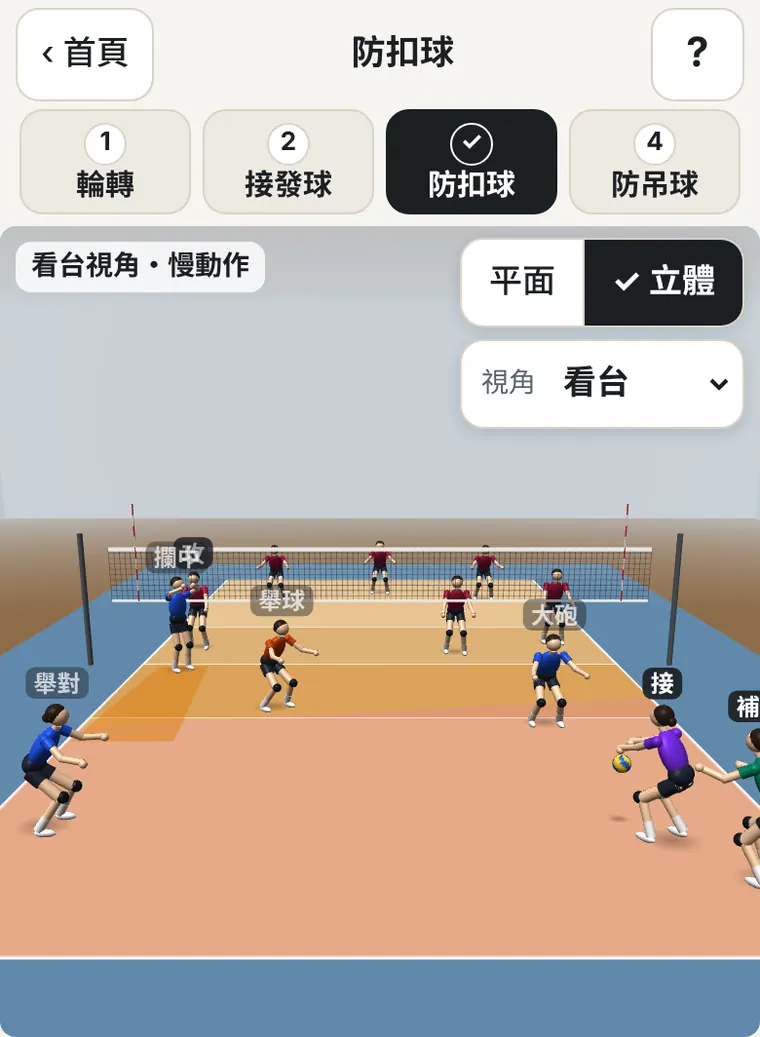
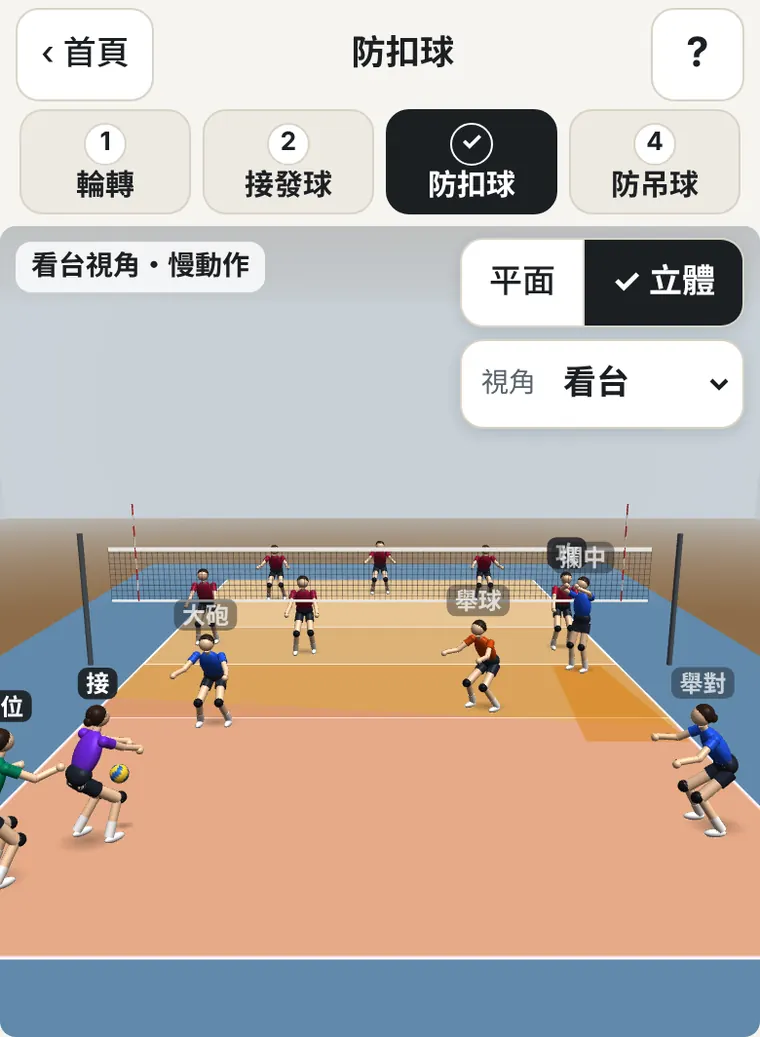
排球站位教室 v2.2.0：舉球、舉對不攔網，攔網碰手變小球，立體畫面左右修正
- 隊上的防守：舉球員和舉對預設不攔網；舉球員守 2 號位前面的短球，長一點的給 1 號位的舉對
- 新設定「攔網碰到球的時候」：碰手變小球（預設）、攔死、沒攔到
- 立體畫面原本左右顛倒（場地座標是左手系），兩種畫法都修正
- 名牌會避開別的球員，不再蓋住別人的名字
- 舊設定自動轉換（sv 4）；說明圖重拍

Claude-Session: https://claude.ai/code/session_01Q8m2fzsawgKx5UKmuuzCmE

Changed region(s): [[0.575, 0.4937, 1.0, 0.864], [0.0, 0.4937, 0.4237, 0.864], [0.4842, 0.5246, 0.5145, 0.5863]]

diff --git a/js/app.js b/js/app.js
@@ -4,7 +4,7 @@
 (() => {
 'use strict';
 
-const APP_VERSION = '2.1.0';
+const APP_VERSION = '2.2.0';
 const BUILD_DATE = '2026-11-16';
 const VERSION_TEXT = `v${APP_VERSION}（${BUILD_DATE}）`;
 const COPY = '© 2026 Ken Chen';
@@ -27,12 +27,17 @@ const ROLE_INFO = {
 let libOff = false;
 function setLibOff(off){ libOff = !!off; ROLE_INFO.L.tok = libOff ? '攔中' : '自由'; ROLE_INFO.L.name = libOff ? '後排攔中' : '自由'; }
 const GROUP_COLOR = { front:'var(--front)', back:'var(--back)', set:'var(--setter)', lib:'var(--lib)' };
+const BLOCKRES_DESC = {
+  soft:'球打進攔網的範圍時，碰到手變成慢慢掉下來的小球，看後面誰去接（新手的攔網通常攔不死）。',
+  kill:'球打進攔網的範圍就算攔死，直接擋回對方場地。',
+  miss:'攔網沒碰到球，球照原本的路線飛過來。',
+};
 const FORM_NAME = { up:'心跟進', rot:'邊跟進', per:'心後', ours:'舉球留網前' };
 const FORM_DESC = {
   up:'一個人站在攔網後面專守吊球，兩邊站深。對手吊球、推球多時適合。',
   rot:'攔網那一側的後排往前守吊球，6 號位轉去守直線深球。',
   per:'後排三個人靠邊線、底線站，重扣最好接；吊球靠 1 號位（或 5 號位）往前和退下來的前排。',
-  ours:'隊上的做法：舉球員一律守 2 號位（在後排時也留在右邊網前守短球、隨時舉球），舉對退到 1 號位防守。',
+  ours:'隊上的做法：舉球員和舉對都不攔網。舉球員一律守 2 號位，接 2 號位前面的短球（在後排時也留在右邊網前、隨時舉球）；比較長的球給後面 1 號位的舉對。',
 };
 const STEPS = ['rot','recv','spike','tip'];
 const STEP_NAME = { rot:'輪轉站位', recv:'接發球', spike:'防扣球', tip:'防吊球' };
@@ -72,7 +77,7 @@ const darkMQ = (() => { try{ return window.matchMedia('(prefers-color-scheme: da
 
 /* ---------- 狀態 ---------- */
 const DEFAULTS = { system:'51', rot:1, recv:'team', useLib:true, step:'rot', serveX:1.6, view:'2d', cam:'dig',
-  formation:'ours', canOH:true, canMB:true, canR:true, mbLate:false, libero:5, radius:2, speed:'normal', attackType:'spike', mode:'learn', attacker:{ x:8.2, y:-1.3 } };
+  formation:'ours', canOH:true, canMB:true, canR:false, mbLate:false, blockRes:'soft', libero:5, radius:2, speed:'normal', attackType:'spike', mode:'learn', attacker:{ x:8.2, y:-1.3 } };
 const CAMS = ['dig','stand','S','MB','OH1','OPP','OH2','L'];
 function sanitizeSettings(o){
   const r = {};
@@ -89,6 +94,7 @@ function sanitizeSettings(o){
   if ([1.2,1.6,2,2.4].includes(+o.radius)) r.radius = +o.radius;
   if (['normal','slow'].includes(o.speed)) r.speed = o.speed;
   if (['spike','tip'].includes(o.attackType)) r.attackType = o.attackType;
+  if (['soft','kill','miss'].includes(o.blockRes)) r.blockRes = o.blockRes;
   if (['learn','free'].includes(o.mode)) r.mode = o.mode;
   if (o.attacker && isFinite(o.attacker.x) && isFinite(o.attacker.y)) r.attacker = { x:clamp(+o.attacker.x, .3, 8.7), y:clamp(+o.attacker.y, -3.2, -.6) };
   if (['51','62','42'].includes(o.system)) r.system = o.system;
@@ -100,7 +106,10 @@ function sanitizeSettings(o){
   if (['2d','3d'].includes(o.view)) r.view = o.view;
   if (CAMS.includes(o.cam)) r.cam = o.cam;
   // v2.1 以前的預設（五人 W、心跟進）改成隊上的站法（教練畫的單舉、舉球員守 2 號位）
-  if (o.sv !== 3){ if (r.recv == null || r.recv === 'w5') r.recv = 'team'; if (r.formation == null || r.formation === 'up') r.formation = 'ours'; }
+  const sv = +o.sv || 0;
+  if (sv < 3){ if (r.recv == null || r.recv === 'w5') r.recv = 'team'; if (r.formation == null || r.formation === 'up') r.formation = 'ours'; }
+  // v2.2：隊上舉球員和舉對都不攔網（教練說的），舊的預設「會攔」改掉
+  if (sv < 4) r.canR = false;
   return r;
 }
 function sanitizeCustom(o){
@@ -117,7 +126,7 @@ const S = Object.assign({}, DEFAULTS, sanitizeSettings(store.get(KEY.settings, {
 S.attacker = Object.assign({}, S.attacker);
 let custom = sanitizeCustom(store.get(KEY.custom, null));
 function saveSettings(){
-  store.set(KEY.settings, { sv:3, system:S.system, rot:S.rot, recv:S.recv, useLib:S.useLib, step:S.step, serveX:+S.serveX.toFixed(2), view:S.view, cam:S.cam,
+  store.set(KEY.settings, { sv:4, blockRes:S.blockRes, system:S.system, rot:S.rot, recv:S.recv, useLib:S.useLib, step:S.step, serveX:+S.serveX.toFixed(2), view:S.view, cam:S.cam,
     formation:S.formation, canOH:S.canOH, canMB:S.canMB, canR:S.canR, mbLate:S.mbLate, libero:S.libero, radius:S.radius,
     speed:S.speed, attackType:S.attackType, mode:S.mode, attacker:{ x:+S.attacker.x.toFixed(2), y:+S.attacker.y.toFixed(2) } });
 }
@@ -326,15 +335,31 @@ function effort(P, L, A){
 function decide(L, type, comp, att){
   const R = S.radius, A = [att.x, att.y];
   if (L[0] < -0.02 || L[0] > 9.02 || L[1] > 9.02) return { kind:'out' };
-  if (type === 'spike' && comp.shadow && inPoly(L, comp.shadow)) return { kind:'blocked' };
+  if (type === 'spike' && comp.shadow && inPoly(L, comp.shadow)){
+    if (S.blockRes === 'kill') return { kind:'blocked' };
+    if (S.blockRes === 'soft'){
+      // 碰到攔網的手：球速變慢，掉在攔網後面一兩公尺，跟吊球一樣要往前撲
+      const bp = [clamp(L[0], comp.seg[0] + .1, comp.seg[1] - .1), .05];
+      const v = [L[0] - bp[0], L[1] - bp[1]], dl = Math.hypot(v[0], v[1]) || 1;
+      const len = clamp(dl * .55, 1.0, 2.2);
+      const Ls = clampCourt([bp[0] + v[0] / dl * len, Math.max(.6, bp[1] + v[1] / dl * len)]);
+      const d2 = decide(Ls, 'soft', comp, att);
+      return Object.assign(d2, { soft:{ bp, L:Ls } });
+    }
+  }
   const cands = ROLES.filter(r => !comp.blockers.includes(r)).map(r => ({ r, d:dist(comp.pos[r], L), e:effort(comp.pos[r], L, A) }));
   const mk = (digger, rule, backup, extra) => Object.assign({ kind:'dig', digger, rule, backup:backup || null }, extra || {});
   if (!cands.length) return { kind:'nobody' };
   // 吊球交給負責吊球的人；但如果有別人（不是舉球員）就站在球旁邊、明顯比較近，就給她
-  if (type === 'tip' && comp.tip && !comp.blockers.includes(comp.tip)){
+  if ((type === 'tip' || type === 'soft') && comp.tip && !comp.blockers.includes(comp.tip)){
     const t = cands.find(c => c.r === comp.tip);
     const closer = cands.some(c => c.r !== comp.tip && c.r !== 'S' && c.d <= R && c.d + 1.0 < (t ? t.d : Infinity));
     if (t && t.d <= R * 1.6 && L[1] <= 4.6 && !closer) return mk(t.r, 'tip');
+  }
+  // 隊上的守法：舉球員不攔網、守 2 號位，2 號位前面的短球由她接；長一點的才給後面的舉對
+  if (S.formation === 'ours' && comp.lu.S.zone === 2 && L[1] <= 3.0 && L[0] >= 5.0){
+    const s = cands.find(c => c.r === 'S');
+    if (s && s.d <= R) return mk('S', 'sShort');
   }
   const inR = cands.filter(c => c.d <= R);
   if (!inR.length){ const n = cands.slice().sort((p, q) => p.e - q.e)[0]; return mk(n.r, 'gap'); }
@@ -348,7 +373,8 @@ function decide(L, type, comp, att){
 function reasonText(dec, lu){
   const nm = r => roleName(r, lu);
   switch (dec.rule){
-    case 'tip': return `吊球：這個情境由${nm(dec.digger)}守吊球，她往前接。`;
+    case 'tip': return dec.soft ? `小球：這個情境由${nm(dec.digger)}守攔網後面的短球，她往前接。` : `吊球：這個情境由${nm(dec.digger)}守吊球，她往前接。`;
+    case 'sShort': return `短球落在 2 號位前面，由${nm('S')}接（隊上的守法）；比較長的球才給後面的舉對。`;
     case 'only': return `球落在${nm(dec.digger)}的範圍裡，由她接。`;
     case 'seam': return `兩個人都接得到：${nm(dec.digger)}離球比較近，而且是往前或往旁邊移動，由她接；${nm(dec.backup)}往她後面補位。` + (dec.yielded ? '舉球員也接得到，但讓給別人，她留著舉第二球。' : '');
     case 'yield': return `舉球員也接得到，但讓${nm(dec.digger)}接，舉球員留著舉第二球。`;
@@ -359,6 +385,7 @@ function reasonText(dec, lu){
 function ruleText(dec){
   switch (dec.rule){
     case 'tip': return '依據：每個隊形都要指定誰守吊球。';
+    case 'sShort': return '依據：隊上的守法，舉球員不攔網、守 2 號位的短球，長一點的給 1 號位的舉對（教練）。';
     case 'seam': return '依據：兩人之間，離球最近、往前比往後容易的人接，另一個人補位（教練慣例）。';
     case 'yield': return '依據：舉球員能不接第一球就不接（教練慣例）。';
     case 'gap': return '圈圈是每個人一兩步內接得到的範圍；圈外的球很難接。';
@@ -402,6 +429,8 @@ function slowK(b){ return v3.on && b && b.slow ? 1.6 : 1; }
 /* ---------- 接法（給說明用） ---------- */
 function digTech(type, P, L){
   const d = dist(P, L);
+  if (type === 'soft') return d < .6 ? '碰手的小球比較慢：往前踩一步、壓低身體，用雙手前臂把球托高。'
+    : '碰手的小球比較慢：看到球碰到攔網的手就往前衝，壓低身體，用雙手前臂把球托高；來不及就單手撈起來。';
   if (type === 'tip'){
     if (d < .6) return '吊球比較慢：往前踩一步、壓低身體，用雙手前臂把球托高。';
     return '吊球比較慢：看到對方手放軟就往前衝，壓低身體，用雙手前臂把球托高；來不及就單手撈起來。';
@@ -440,7 +469,7 @@ function buildSteps(L, type, comp, dec, att){
     steps.push({ key:'blocked', title:'被攔網擋住', pos:P0, marks:{}, face:bp,
       ball:{ from:hand, to:bp, dur:330, arc:.08, z:[2.75, 2.45, 0], then:{ to:[bp[0], -2.7], dur:480, arc:.45, z:[2.45, .05, 3.2] } },
       cap:'這球打進攔網陰影（橘色斜線），被攔網擋回去。陰影裡只會有吊球，後排要站在陰影兩邊。',
-      rule:'攔網陰影只畫到離網 4 公尺：比較深的球會從攔網上面飛過去。',
+      rule:'攔網陰影只畫到離網 4 公尺：比較深的球會從攔網上面飛過去。設定裡「攔網碰到球」選了「攔死」；改成「碰手變小球」可以練接攔網後的小球。',
       notes:allNotes(r => comp.blockers.includes(r) ? '攔網：把球擋回去' : '看球，準備接彈回來的球') });
     return steps;
   }
@@ -448,6 +477,9 @@ function buildSteps(L, type, comp, dec, att){
     steps.push({ key:'nobody', title:'沒有人可以接', pos:P0, marks:{}, face:L, ball:Object.assign({}, atk, { to:L, dur:520, arc:.15 }), cap:'場上的人都去攔網了，沒有人能接這一球。', notes:comp.notes });
     return steps;
   }
+  // 碰手變小球：球改從攔網的手掉下來，落點換成小球的落點
+  const soft = dec.soft;
+  if (soft){ L = soft.L; type = 'tip'; }
   // 1. 攻擊・接球：最近的人上前接，另一個人跟到她後面保護，旁邊的人往她空出來的地方移
   const d = dec.digger;
   const away = unit([L[0] - A[0], L[1] - A[1]]);
@@ -481,8 +513,8 @@ function buildSteps(L, type, comp, dec, att){
   }
   const setterRole = d === 'S' ? backupSetter(dec, comp, P1) : 'S';
   if (setterGoes) P1.S = lerp(P0.S, TARGET, .35);
-  const tech = digTech(type, P0[d], L);
-  let cap1 = reasonText(dec, lu) + tech;
+  const tech = digTech(soft ? 'soft' : type, P0[d], L);
+  let cap1 = (soft ? '這球打到攔網的手，速度變慢，掉在攔網後面變成小球。' : '') + reasonText(dec, lu) + tech;
   if (backup && backup !== dec.backup) cap1 += `${short(backup)}跟過去站在她後面，球接飛了可以救。`;
   if (fillers.length) cap1 += `${fillers.map(short).join('、')}往她空出來的地方移一點。`;
   if (leaners.length) cap1 += '其他人往球的方向靠一步，眼睛跟著球。';
@@ -490,8 +522,10 @@ function buildSteps(L, type, comp, dec, att){
   const rules1 = [ruleText(dec)];
   if (backup || fillers.length) rules1.push('補位：最近的隊友跟到接球的人後面保護，旁邊的人往空出來的地方移（教練慣例）。');
   const faceMap = {}; for (const r of ROLES) faceMap[r] = L; faceMap[d] = A;
-  steps.push({ key:'dig', title: type === 'tip' ? '吊球・接球' : '攻擊・接球', pos:P1, faceMap,
-    ball: type === 'tip' ? { from:hand, to:L, dur:900, arc:.7, z:[2.6, .55, 3.1] } : { from:hand, to:L, dur:480, arc:.1, z:[2.75, .65, 0], slow:true },
+  if (soft) rules1.push('攔網碰到的球：設定裡可以改成「攔死」或「沒攔到」。');
+  steps.push({ key:'dig', title: soft ? '碰手・接小球' : (type === 'tip' ? '吊球・接球' : '攻擊・接球'), pos:P1, faceMap,
+    ball: soft ? { from:hand, to:soft.bp, dur:330, arc:.08, z:[2.75, 2.5, 0], then:{ to:L, dur:950, arc:.55, z:[2.5, .55, 3.0] } }
+      : type === 'tip' ? { from:hand, to:L, dur:900, arc:.7, z:[2.6, .55, 3.1] } : { from:hand, to:L, dur:480, arc:.1, z:[2.75, .65, 0], slow:true },
     cap:cap1, rule:rules1.filter(Boolean).join(' '), marks:{ dig:d, backup, fillers, gap: dec.rule === 'gap' },
     notes:allNotes(r => r === d ? `接球：${tech}` : r === backup ? '補位：跟到接球的人後面，球接飛了可以救'
       : fillers.includes(r) ? '補空位：往接球的人空出來的地方移一點'
@@ -1053,26 +1087,26 @@ function setMarks(m, P){
     tag.setAttribute('visibility', 'visible');
   };
   if (!m) return;
-  if (m.hidden){
-    for (const r of m.hidden.slice().sort((a, b) => P && P[a] && P[b] ? P[a][1] - P[b][1] : 0)){
-      let below = false;
-      if (P && P[r]){
-        const free = y => !placed.some(q => Math.abs(q[0] - P[r][0]) < 1.25 * k && Math.abs(q[1] - y) < .55 * k)
-          && !Object.keys(P).some(o => o !== r && Math.abs(P[o][0] - P[r][0]) < .9 * k && Math.abs(P[o][1] - y) < .6 * k);
-        const up = P[r][1] - .95 * k, dn = P[r][1] + .95 * k;
-        below = !free(up) && free(dn);
-        placed.push([P[r][0], below ? dn : up]);
-      }
-      showTag(r, '不接', below);
+  // 名牌放在人的上面或下面：先放想放的那一邊，那裡有別人或別的名牌擋著就換另一邊（不要蓋住別人的名字）
+  const put = (r, text, preferBelow) => {
+    let below = !!preferBelow;
+    if (P && P[r]){
+      const free = y => !placed.some(q => Math.abs(q[0] - P[r][0]) < 1.25 * k && Math.abs(q[1] - y) < .55 * k)
+        && !Object.keys(P).some(o => o !== r && Math.abs(P[o][0] - P[r][0]) < .9 * k && Math.abs(P[o][1] - y) < .6 * k);
+      const up = P[r][1] - .95 * k, dn = P[r][1] + .95 * k;
+      if (below ? (!free(dn) && free(up)) : (!free(up) && free(dn))) below = !below;
+      placed.push([P[r][0], below ? dn : up]);
     }
-  }
-  if (m.serve) showTag(m.serve, '發球');
-  if (m.dig){ plG[m.dig].classList.add('is-dig'); showTag(m.dig, m.gap ? '衝！' : '接'); }
-  if (m.backup){ plG[m.backup].classList.add('is-backup'); showTag(m.backup, '補位', true); }
-  if (m.partner){ showTag(m.partner, '讓開', true); }
-  if (m.fillers) for (const r of m.fillers){ plG[r].classList.add('is-backup'); showTag(r, '補空位'); }
-  if (m.set){ showTag(m.set, '舉'); }
-  if (m.hit){ showTag(m.hit, '攻擊'); }
+    showTag(r, text, below);
+  };
+  if (m.hidden) for (const r of m.hidden.slice().sort((a, b) => P && P[a] && P[b] ? P[a][1] - P[b][1] : 0)) put(r, '不接');
+  if (m.dig){ plG[m.dig].classList.add('is-dig'); put(m.dig, m.gap ? '衝！' : '接'); }
+  if (m.serve) put(m.serve, '發球');
+  if (m.set) put(m.set, '舉');
+  if (m.hit) put(m.hit, '攻擊');
+  if (m.backup){ plG[m.backup].classList.add('is-backup'); put(m.backup, '補位', true); }
+  if (m.partner) put(m.partner, '讓開', true);
+  if (m.fillers) for (const r of m.fillers){ plG[r].classList.add('is-backup'); put(r, '補空位'); }
 }
 function applyK(){
   const r = svg.getBoundingClientRect();
@@ -1227,7 +1261,7 @@ function startSim(L){
   const comp = resetPlay(true);
   if (S.step === 'recv'){ const dec = decideRecv(L, comp); play.dec = dec; play.steps = buildRecvSteps(L, comp, dec); }
   else { const dec = decide(L, S.attackType, comp, S.attacker); play.dec = dec; play.steps = buildSteps(L, S.attackType, comp, dec, S.attacker); }
-  play.landing = L.slice();
+  play.landing = (play.dec && play.dec.soft) ? play.dec.soft.L.slice() : L.slice();
   applyStep(0, false);
   play.auto = true;
   applyStep(1, true);
@@ -1349,7 +1383,7 @@ function previewBall(q){
   let text = '';
   if (dec.kind === 'out') text = '出界';
   else if (dec.kind === 'blocked') text = '會被攔網擋住';
-  else if (dec.kind === 'dig'){ rgG[dec.digger].classList.add('hot'); text = `${ROLE_INFO[dec.digger].tok}接` + (dec.rule === 'gap' ? '（空檔）' : ''); }
+  else if (dec.kind === 'dig'){ rgG[dec.digger].classList.add('hot'); text = (dec.soft ? '碰手・' : '') + `${ROLE_INFO[dec.digger].tok}接` + (dec.rule === 'gap' ? '（空檔）' : ''); }
   if (text){
     const g = el('g', { class:'tag-svg', transform:`translate(${q[0].toFixed(2)} ${(q[1] - .75).toFixed(2)}) scale(${k.toFixed(2)})` }, G.tags);
     const w = .24 * text.length + .3;
@@ -1435,7 +1469,7 @@ function set3DJumps(st, animate, now){
     v3.jump.att = { t0:now - 340 * kk, dur:720 * kk, h:.55 };
     const L = play.landing || [4.5, 4];
     const toNet = Math.abs(S.attacker.y) / (Math.abs(S.attacker.y) + Math.max(.5, L[1]));
-    const tNet = (st.ball ? st.ball.dur * slowK(st.ball) : 480) * kk * toNet;
+    const tNet = (st.ball ? st.ball.dur * slowK(st.ball) : 480) * kk * (st.ball && st.ball.then && st.key === 'dig' ? 1 : toNet);
     for (const r of play.comp.blockers) v3.jump['us:' + r] = { t0:now + tNet - 330 * kk, dur:660 * kk, h:.48 };
   }
   if (st.key === 'set' && st.hitter){
@@ -1678,7 +1712,7 @@ function blockDesc(){
   if (!S.canOH) parts.push('大砲不攔：對方從左邊打時退下來守吊球');
   if (!S.canMB) parts.push('攔中不攔：退到三米線附近守中間的吊球');
   else if (S.mbLate) parts.push('攔中來不及：對方打邊線時只有邊上的人攔，攔中不要硬跳，退下來守吊球');
-  if (!S.canR) parts.push(`${rName()}不攔：對方從右邊打時退下來守吊球`);
+  if (!S.canR) parts.push(S.formation === 'ours' ? '舉球員、舉對不攔：舉球員守 2 號位的短球，長一點的給後面的舉對' : `${rName()}不攔：對方從右邊打時退下來守吊球`);
   return parts.length ? parts.join('；') + '。' : '能攔的人都攔，邊線兩人攔、中間攔中加旁邊的人。';
 }
 function refreshSitUI(){
@@ -1693,6 +1727,7 @@ function refreshSitUI(){
   document.querySelectorAll('.chips-multi button').forEach(b => b.setAttribute('aria-pressed', String(!!S[b.dataset.k])));
   $('chipR').textContent = rName();
   $('blockDesc').textContent = blockDesc();
+  $('blockResDesc').textContent = BLOCKRES_DESC[S.blockRes];
   document.querySelectorAll('.chips[data-key="mbLate"] button').forEach(b => { b.setAttribute('aria-pressed', String((S.mbLate ? '1' : '0') === b.dataset.v)); b.setAttribute('aria-disabled', String(!S.canMB)); });
 }
 function onChip(key, v){
@@ -1840,7 +1875,7 @@ const HELP = [
   ]},
   { id:'situation', title:'設定', cards:[
     { img:'help/sit-1.webp', h:'點「設定」打開', p:'手機直放時，設定從下面打開，上面的球場還看得到；手機橫放、平板橫放和電腦，設定從右邊打開。改了馬上看得到結果。' },
-    { img:'help/sit-2.webp', h:'誰會攔網、防守隊形', p:'「誰會攔網」可以複選大砲、攔中、舉對；不夠高的人取消勾選，就會看到她退下來守哪裡。攔中跟不上邊線時選「來不及」。' },
+    { img:'help/sit-2.webp', h:'誰會攔網、攔網碰到球', p:'「誰會攔網」可以複選；隊上舉球員、舉對不攔，所以只勾大砲和攔中。「攔網碰到球的時候」預設是碰手變小球，可以看攔網後面誰去接；也可以選攔死或沒攔到。' },
   ]},
   { id:'free', title:'自己擺站位', cards:[
     { img:'help/free-1.webp', h:'按「自己擺」', p:'在「3 防扣球」或「4 防吊球」按「自己擺」，6 個人都可以拖。前排拉到網前就算攔網，後排拉到網前也不能攔。' },
@@ -2076,7 +2111,7 @@ window.VB = {
   openHelp, openCards, openHelpTopic, helpGo, setMode, setStep, rotate, set3D, attackZones, posNow, ball3,
   get play(){ return play; }, get custom(){ return custom; }, set custom(v){ custom = v; }, get v3(){ return v3; },
   setSettings(o){
-    const m = sanitizeSettings(Object.assign({ sv:3 }, o)); if (o.mode) m.mode = o.mode; if (o.step) m.step = o.step;
+    const m = sanitizeSettings(Object.assign({ sv:4 }, o)); if (o.mode) m.mode = o.mode; if (o.step) m.step = o.step;
     Object.assign(S, m); if (m.attacker) S.attacker = Object.assign({}, m.attacker);
     if (isDefStep()) S.attackType = S.step;
     document.body.classList.toggle('mode-free', S.mode === 'free' && isDefStep());

diff --git a/index.html b/index.html
@@ -188,6 +188,8 @@
         <li><b>第一波攻擊</b>：先從站的那一邊攻擊，打完再換到固定位置（例如舉球員在 1 號位那一輪，前排的舉對和大砲第一波打完再交換）。</li>
         <li><b>我們發球</b>：發球前先站到方便換位的地方，發球一出手就換：舉球員到 2 號位、舉對到 1 號位、大砲到 4 號位、攔中到 3 號位，自由守 5 號位、後排大砲守 6 號位。</li>
         <li><b>後排攔中發球時</b>：自由還不能換上來，攔中發完球守 6 號位，後排大砲到 5 號位。</li>
+        <li><b>防守</b>：舉球員和舉對都不攔網，只有大砲和攔中攔。舉球員一律守 2 號位，接 2 號位前面的短球、吊球；比較長的球給後面 1 號位的舉對。有自由時大砲守 6 號位、自由守 5 號位的斜線；沒有自由時攔中守 6 號位、大砲守 5 號位。</li>
+        <li><b>攔網不一定攔得死</b>：球打到攔網的手常常變成慢慢掉下來的小球，後面的人要往前撲。App 的設定「攔網碰到球的時候」可以選碰手變小球、攔死、沒攔到。</li>
       </ul>
       <p class="note">App 的「1 輪轉」按播放，可以看我們發球時怎麼換位；「2 接發球」選「隊上的站法」，就是這裡的接發球。站位圖解也有六輪的圖。</p>
     </details>
@@ -376,6 +378,13 @@
           <button data-k="canOH">大砲</button><button data-k="canMB">攔中</button><button data-k="canR" id="chipR">舉對</button>
         </div>
         <p class="hint-line" id="blockDesc"></p>
+      </fieldset>
+      <fieldset>
+        <legend>攔網碰到球的時候</legend>
+        <div class="chips" data-key="blockRes">
+          <button data-v="soft">碰手變小球</button><button data-v="kill">攔死</button><button data-v="miss">沒攔到</button>
+        </div>
+        <p class="hint-line" id="blockResDesc"></p>
       </fieldset>
       <fieldset>
         <legend>攔中跟得上邊線嗎</legend>

diff --git a/js/diagrams.js b/js/diagrams.js
@@ -146,7 +146,7 @@ function topics(api){
   T.push({ id:'r42', title:'雙舉（4-2）三種輪', sub:`${F.short}接發`, cards:sysCards('42', [4,3,2]).map(c => Object.assign(c, { p:c.p + '前排的舉球員舉球，前排只剩兩個攻擊手，但舉球員本來就在網前，比較簡單。' })) });
   T.push({ id:'defense', title:'防守隊形', sub:'對方從我們右邊打', cards:[
     { h:'基本站位：先站好再看', p:'對方還沒舉球時，前排靠網準備攔網，後排站在自己的區域。看對方舉給誰，再移動到防守位置。', svg:() => court({ label:'基本站位', players:pl(baseComp.base, baseComp.lu), opp:[{ x:4.5, y:-1.3, t:'舉' }] }) },
-    defCard({ formation:'ours' }, att, '舉球留網前（隊上）', '舉球員一律守 2 號位：在後排時也留在右邊網前守短球、隨時舉球（不能攔網）；舉對退到 1 號位防守。紅色是扣球打得到的地方，橘色斜線是只能吊球的地方。'),
+    defCard({ formation:'ours', canR:false }, att, '舉球留網前（隊上）', '舉球員和舉對都不攔網。舉球員一律守 2 號位，接 2 號位前面的短球；比較長的球給後面 1 號位的舉對。有自由時大砲守 6、自由守 5 的斜線；沒有自由時攔中守 6、大砲守 5。紅色是扣球打得到的地方，橘色斜線是只能吊球的地方。'),
     defCard({ formation:'up' }, att, '心跟進（man-up）', '6 號位（或舉球員）站到攔網後面、三米線附近專守吊球，兩邊的後排站深。對手吊球、推球多時適合。紅色是扣球打得到的地方，橘色斜線是只能吊球的地方。'),
     defCard({ formation:'rot' }, att, '邊跟進（rotation）', '攔網那一側的後排（1 號位）往前守吊球，6 號位轉到直線深球，5 號位守斜線。'),
     defCard({ formation:'per' }, att, '心後（perimeter）', '後排三個人靠邊線、底線站，重扣最好接；吊球靠 1 號位往前和退下來的前排，離得比較遠。'),

diff --git a/js/gl3d.js b/js/gl3d.js
@@ -187,8 +187,10 @@ function create(canvas, overlay){
   }
   function setCamera(c){
     const f = norm(sub(c.target, c.eye));
-    let r = cross(f, [0, 0, 1]); if (Math.hypot(r[0], r[1], r[2]) < 1e-5) r = [1, 0, 0];
-    r = norm(r); const u = cross(r, f);
+    // 場地座標（x 往右、y 往我們底線、z 往上）是左手系：面向網子時右手邊是 +x，
+    // 所以右邊要用 z × f，不能用 f × z（那樣左右會顛倒，像照鏡子）
+    let r = cross([0, 0, 1], f); if (Math.hypot(r[0], r[1], r[2]) < 1e-5) r = [1, 0, 0];
+    r = norm(r); const u = cross(f, r);
     cam.eye = c.eye; cam.f = f; cam.r = r; cam.u = u; cam.fov = c.fov || 60;
     const e = c.eye;
     const view = new Float32Array([r[0], u[0], -f[0], 0, r[1], u[1], -f[1], 0, r[2], u[2], -f[2], 0, -dot(r, e), -dot(u, e), dot(f, e), 1]);

diff --git a/js/render3d.js b/js/render3d.js
@@ -20,8 +20,9 @@ function create(canvas){
   }
   function setCamera(c){
     const f = norm(sub(c.target, c.eye));
-    let r = cross(f, [0, 0, 1]); if (Math.hypot(r[0], r[1], r[2]) < 1e-6) r = [1, 0, 0];
-    r = norm(r); const u = cross(r, f);
+    // 場地座標是左手系：右邊用 z × f，左右才不會顛倒
+    let r = cross([0, 0, 1], f); if (Math.hypot(r[0], r[1], r[2]) < 1e-6) r = [1, 0, 0];
+    r = norm(r); const u = cross(f, r);
     const fov = (c.fov || 62) * Math.PI / 180;
     const focal = (H / 2) / Math.tan(fov / 2);
     cam = { eye:c.eye, f, r, u, focal };

diff --git a/sw.js b/sw.js
@@ -1,6 +1,6 @@
 /* 排球站位教室：離線快取。先問網站有沒有新版（最多等 3 秒），連不上或回錯誤就用存好的版本。 */
 const PREFIX = 'vbdef-';
-const VERSION = '2.1.0';
+const VERSION = '2.2.0';
 const CACHE = PREFIX + VERSION;
 const ASSETS = [
   './', 'index.html', 'css/app.css', 'js/rotation.js', 'js/render3d.js', 'js/gl3d.js', 'js/diagrams.js', 'js/app.js', 'manifest.webmanifest',

diff --git a/tools/make-help-shots.py b/tools/make-help-shots.py
@@ -10,7 +10,7 @@ URL = os.environ.get('VB_URL', 'http://localhost:8765/index.html')
 CHROME = os.environ.get('CHROME', '/usr/bin/google-chrome')
 OUT = 'help'
 W, H, DPR = 390, 844, 2
-BASE = "{system:'51', rot:1, recv:'team', useLib:true, formation:'ours', canOH:true, canMB:true, canR:true, mbLate:false, libero:5, radius:2, attacker:{x:8.2,y:-1.3}, serveX:1.6, mode:'learn', view:'2d', cam:'dig'}"
+BASE = "{system:'51', rot:1, recv:'team', useLib:true, formation:'ours', canOH:true, canMB:true, canR:false, mbLate:false, blockRes:'soft', libero:5, radius:2, attacker:{x:8.2,y:-1.3}, serveX:1.6, mode:'learn', view:'2d', cam:'dig'}"
 
 
 def save(png_bytes, name, crop=None, max_w=760):

diff --git a/README.md b/README.md
@@ -8,6 +8,7 @@
 - **隊上的站法**：教練畫的單舉六輪（接發球大多四個人接、我們發球怎麼換位、舉球員一律守 2 號位），是單舉的預設；也可以換成五人 W、四人、三人。
 - **2 接發球**：五人 W、四人、三人接；發球那一刻的站位規則（虛線連起來的兩個人不能前後或左右交換）自動檢查，拖球看誰接發球、哪隻腳在前、怎麼接，接著傳到舉球員、舉球・保護、換到防守位置。
 - **3 防扣球、4 防吊球**：紅色是扣球打得到的地方，橘色斜線是只能吊球的地方（攔網陰影和網前），拖對方攻擊手、拖球看誰接、誰補位。可以切到「自己擺」拖 6 個人。
+- **隊上的防守**（預設）：舉球員和舉對都不攔網，舉球員守 2 號位的短球，長一點的給 1 號位的舉對。球打進攔網範圍時，可以選「碰手變小球」（預設，看攔網後面誰去接）、「攔死」或「沒攔到」。
 - **立體畫面**：用 WebGL 畫的人形球員（會蹲低準備、跑、攔網跳起來、雙手接球），預設慢動作；可以用接球的人的眼睛（第一人稱）看扣球慢慢飛過來、接進自己的雙手。不需要網路或外部套件；手機不支援 WebGL 時改用簡單的畫法。
 - **站位圖解**：號位和站位規則、接發球隊形、單舉六輪、雙輔舉、雙舉、防守隊形、保護和補位、準備姿勢和步法。
 - **觀念和規則**：App 用的規則和根據，附資料來源。
@@ -32,7 +33,7 @@
 
 ## 退回舊版
 
-每次改版前都會先把目前的 `main` 另存成備份分支（例如 `backup-v1.1.0`、`backup-v2.0.0`）。新版有問題時：
+每次改版前都會先把目前的 `main` 另存成備份分支（例如 `backup-v1.1.0`、`backup-v2.0.0`、`backup-v2.1.0`）。新版有問題時：
 
 1. 在 GitHub 打開備份分支，把檔案放回 `main`（或在電腦上 `git checkout backup-v1.1.0 -- .` 再推上去）。
 2. 把 `sw.js` 的 `VERSION` 改成一個新的號碼（例如 `1.1.1`），手機才會丟掉有問題的快取。
@@ -47,7 +48,7 @@
 | `vbdef.custom.v1` | 「自己擺」的站位 |
 | `vbdef.hint.drag.v1`、`vbdef.hint.v2` | 看過操作提示了沒 |
 
-舊版的設定會自動轉換：v1 的「舉球員在前排」會換成舉球員在 2 號位的那一輪；v2.0 的預設（五人 W、心跟進）會換成隊上的站法和舉球留網前。清除瀏覽資料、換手機或從 LINE 內建瀏覽器打開時，設定會是預設值；這些只是練習用的設定，不影響使用。
+舊版的設定會自動轉換：v1 的「舉球員在前排」會換成舉球員在 2 號位的那一輪；v2.0 的預設（五人 W、心跟進）會換成隊上的站法和舉球留網前；v2.1 以前存的「舉對會攔網」會換成不攔（v2.2 起隊上的做法）。清除瀏覽資料、換手機或從 LINE 內建瀏覽器打開時，設定會是預設值；這些只是練習用的設定，不影響使用。
 
 ## 程式檔案
 
